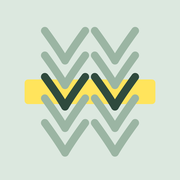
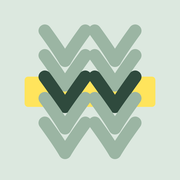
아이콘 V자 무늬를 더 굵게
Claude-Session: https://claude.ai/code/session_01AbJRkVudL3PsE7AK5s7CjE

Changed region(s): [[0.1111, 0.1389, 0.8889, 0.8889]]

diff --git a/sw.js b/sw.js
@@ -1,6 +1,6 @@
 // 앱 파일을 폰에 저장해 두고 인터넷 없이도 열리게 한다.
 // 코드를 고친 뒤 올릴 때는 VERSION을 올린다.
-const VERSION = 'knit-v12';
+const VERSION = 'knit-v13';
 const ASSETS = [
   './', 'index.html', 'app.css', 'manifest.webmanifest',
   'js/main.js', 'js/db.js', 'js/pdf.js', 'js/chartview.js', 'js/ui.js', 'js/knitting.js',

diff --git a/js/main.js b/js/main.js
@@ -7,7 +7,7 @@ import {
   repeatTotal, nextRow, prevRow, jumpTo, partStatus, isText,
 } from './knitting.js';
 
-const APP_VERSION = 12;
+const APP_VERSION = 13;
 const app = document.getElementById('app');
 const go = (h) => { location.hash = h; };
 const clamp = (v, a, b) => Math.max(a, Math.min(b, v));
